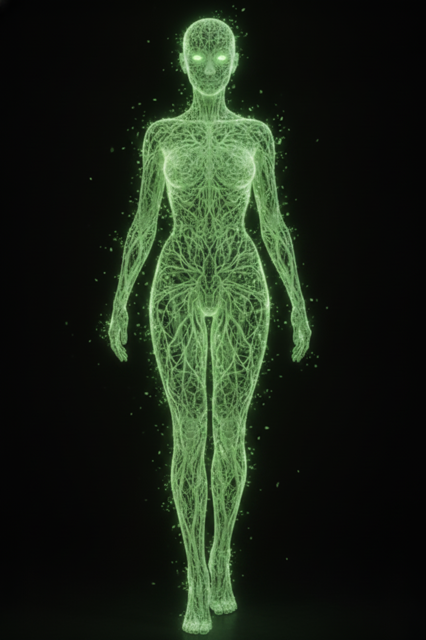
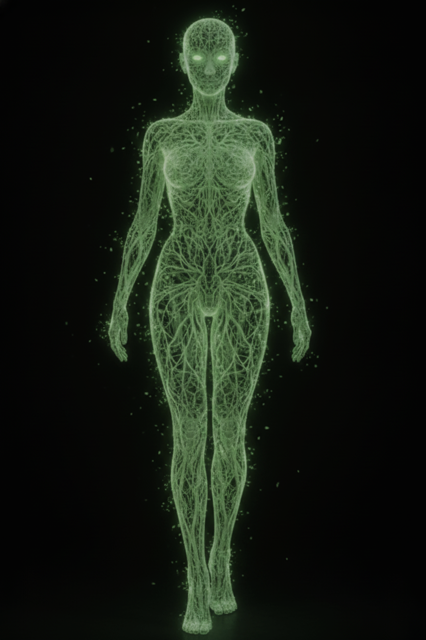
ATLAS-Knoten über das Gehirn verlegt; Vision- & Gaia-Sprites gedimmt/entsättigt für stimmigeres Design

Changed region(s): [[0.2441, 0.0312, 0.7324, 1.0]]

diff --git a/oekosystem-gehirn.html b/oekosystem-gehirn.html
@@ -679,7 +679,7 @@ const INFRA = [
   // --- Ausgabe / extern (oben rechts, wie gehabt) ---
   {key:'github', name:'GitHub', sub:'Wissensnetz · Gist · Pages', x:1044, y:293, col:COL.github,
    states:['push wissensnetz ✓','ARBEITSSTAND.md → Gist synchron','Pages deployed · oekosystem.html live','commit f74c0b9 · Ökosystem mobil']},
-  {key:'atlas', name:'ATLAS · Fabrik', sub:'Multi-KI-Software-Fabrik', x:740, y:740, col:COL.atlas,
+  {key:'atlas', name:'ATLAS · Fabrik', sub:'Multi-KI-Software-Fabrik', x:520, y:148, col:COL.atlas,
    states:['Jarvis prüft als 3. Reviewer (nur-lesend)','coordination-fleet aktiv · Docker online','Postgres + NATS verbunden','Review-Verdikt → Telegram an Kai','schreibgeschützt: kann nichts kaputtmachen']},
 
   // --- Fundament / System (linke Flanke, prominent: Gateway) ---
